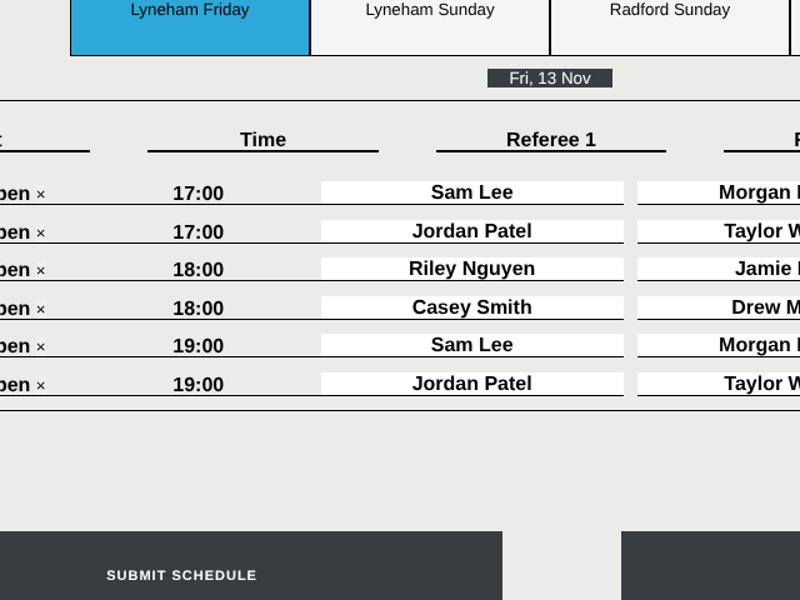
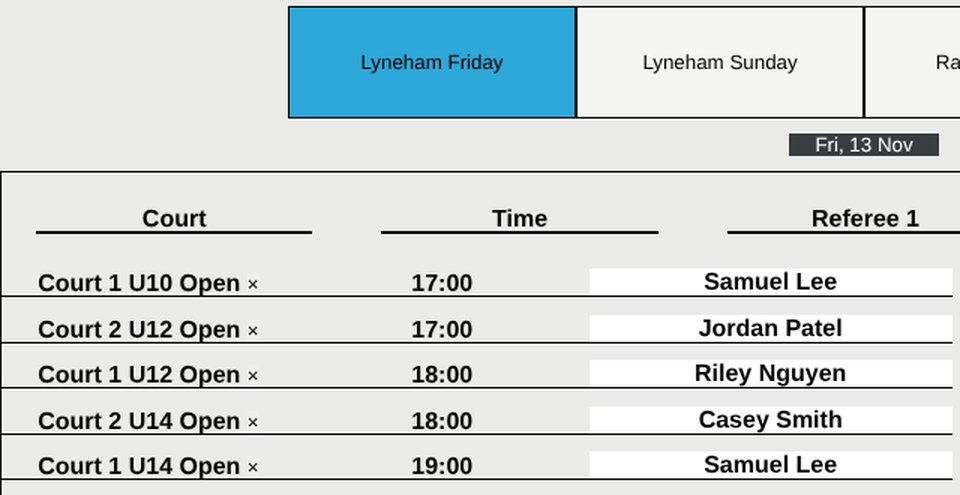
Restructure home page for employers, add link previews, 404, sitemap
- Feature the referee app first, with its security rebuild in the summary
- Move games into their own section; refresh Gunther card and screenshot
- Remove 75 Hard card, references line and unused 20 MB Gunther.gif
- Group skills; add large link preview image, Person schema, canonical
- Add 404.html, robots.txt, sitemap.xml; case study preview tags
- Accessibility: main landmark, image links hidden from screen readers
  and keyboard (they duplicate Play), bigger Code tap targets

Claude-Session: https://claude.ai/code/session_017CNj2MoNH8VgPs7evN4h65

diff --git a/index.html b/index.html
@@ -9,8 +9,23 @@
   <meta property="og:url" content="https://bnbaldwin.com/">
   <meta property="og:title" content="Blake Baldwin">
   <meta property="og:description" content="IT graduate studying a Master of Cyber Security, building games and apps on the side.">
-  <meta property="og:image" content="https://bnbaldwin.com/images/me.jpg">
-  <meta name="twitter:card" content="summary">
+  <meta property="og:image" content="https://bnbaldwin.com/images/og.jpg">
+  <meta property="og:image:width" content="1200">
+  <meta property="og:image:height" content="630">
+  <meta name="twitter:card" content="summary_large_image">
+  <link rel="canonical" href="https://bnbaldwin.com/">
+  <script type="application/ld+json">
+  {
+    "@context": "https://schema.org",
+    "@type": "Person",
+    "name": "Blake Baldwin",
+    "url": "https://bnbaldwin.com/",
+    "image": "https://bnbaldwin.com/images/me.jpg",
+    "sameAs": ["https://github.com/ballsyblake", "https://www.linkedin.com/in/blake-baldwin-22b68ba9/"],
+    "alumniOf": {"@type": "CollegeOrUniversity", "name": "University of Canberra"},
+    "knowsAbout": ["Cyber security", "Web development", "Game development"]
+  }
+  </script>
   <link rel="icon" href="favicon.svg" type="image/svg+xml">
   <link rel="preconnect" href="https://fonts.googleapis.com">
   <link rel="preconnect" href="https://fonts.gstatic.com" crossorigin>
@@ -81,7 +96,7 @@
     }
     .card h3 { font-size: 1.1rem; }
     .card p { color: var(--muted); font-size: 0.95rem; flex: 1; }
-    .card img { width: 100%; aspect-ratio: 4 / 3; object-fit: cover; border-radius: 8px; border: 1px solid var(--line); }
+    .card img { width: 100%; height: auto; aspect-ratio: 4 / 3; object-fit: cover; border-radius: 8px; border: 1px solid var(--line); }
     .card img.pixel { image-rendering: pixelated; }
     .tags { display: flex; flex-wrap: wrap; gap: 6px; }
     .tags span { font-size: 0.75rem; background: var(--tag); padding: 2px 8px; border-radius: 6px; }
@@ -90,7 +105,15 @@
       background: var(--accent); color: var(--accent-ink); text-decoration: none;
       padding: 6px 14px; border-radius: 8px;
     }
+    .actions a:not(.play) { padding: 6px 2px; }
     .note { font-size: 0.85rem; color: var(--muted); }
+
+    .feature { display: grid; grid-template-columns: 1.1fr 1fr; gap: 20px; align-items: start; }
+    .feature img { aspect-ratio: 16 / 10; object-position: left top; }
+    @media (max-width: 680px) { .feature { grid-template-columns: 1fr; } }
+    .skills { display: grid; gap: 12px; }
+    .skills h3 { font-size: 0.85rem; font-weight: 600; margin-bottom: 6px; }
+    footer a { color: inherit; }
 
     .list { list-style: none; display: grid; gap: 14px; }
     .list li { display: grid; grid-template-columns: 1fr; gap: 2px; }
@@ -104,7 +127,7 @@
 <body>
   <div class="wrap">
     <header>
-      <img src="images/me.jpg" alt="Blake Baldwin">
+      <img src="images/me.jpg" alt="Blake Baldwin" width="112" height="112">
       <div>
         <h1>Blake Baldwin</h1>
         <p>IT graduate studying a Master of Cyber Security. I build games and small apps on the side.</p>
@@ -116,61 +139,22 @@
       </div>
     </header>
 
-    <section id="projects">
-      <h2>Projects</h2>
-      <div class="grid">
-        <article class="card">
-          <a href="referee-app/"><img src="images/referee-app.jpg" alt="Referee app: the admin schedule, appointing available referees to matches" loading="lazy"></a>
+    <main>
+    <section id="featured">
+      <h2>Featured project</h2>
+      <article class="card feature">
+        <a href="referee-app/" tabindex="-1" aria-hidden="true"><img src="images/referee-app.jpg" alt="" width="960" height="495"></a>
+        <div style="display:flex;flex-direction:column;gap:10px">
           <h3>Referee Appointments System</h3>
-          <p>Scheduling for a community futsal club: availability, match appointments, venue shifts, pay and email alerts. Used by the club from 2020, then rebuilt in 2026 with proper security and tests.</p>
-          <div class="tags"><span>PHP</span><span>MySQL</span><span>jQuery</span><span>Security</span></div>
+          <p>Scheduling for a community futsal club: availability, match appointments, venue shifts, pay and email alerts. Used by the club from 2020, then rebuilt in 2026 to fix its security holes: hashed passwords, server-side sessions and role checks, prepared statements against SQL injection, CSRF protection, and automated security tests.</p>
+          <div class="tags"><span>PHP</span><span>MySQL</span><span>jQuery</span><span>Security</span><span>Playwright</span></div>
           <div class="actions">
             <a class="play" href="referee-app/demo/">Try the demo</a>
             <a href="referee-app/">Case study</a>
             <a href="https://github.com/ballsyblake/referee-appointments">Code</a>
           </div>
-        </article>
-
-        <article class="card">
-          <a href="https://ballsyblake.github.io/A-little-to-the-left/"><img src="images/just-so.jpg" alt="Just So: a row of mugs to turn so their handles match" loading="lazy"></a>
-          <h3>Just So</h3>
-          <p>A cozy tidying puzzle for your phone. 100 levels where everything has a right place.</p>
-          <div class="tags"><span>TypeScript</span><span>Vite</span><span>Mobile web</span></div>
-          <div class="actions">
-            <a class="play" href="https://ballsyblake.github.io/A-little-to-the-left/">Play</a>
-            <a href="https://github.com/ballsyblake/A-little-to-the-left">Code</a>
-          </div>
-        </article>
-
-        <article class="card">
-          <a href="https://ballsyblake.github.io/croc-2/"><img class="pixel" src="images/bimbles-bounce.jpg" alt="Bimble's Bounce: the mascot in a low-poly grassy level" loading="lazy"></a>
-          <h3>Bimble's Bounce</h3>
-          <p>A low-poly 3D collect-a-thon platformer that runs in iPhone Safari. Early test level.</p>
-          <div class="tags"><span>three.js</span><span>Rapier physics</span><span>PWA</span></div>
-          <div class="actions">
-            <a class="play" href="https://ballsyblake.github.io/croc-2/">Play</a>
-            <a href="https://github.com/ballsyblake/croc-2">Code</a>
-          </div>
-        </article>
-
-        <article class="card">
-          <h3>75 Hard Tracker</h3>
-          <p>A shared tracker for the 75 Hard challenge: daily checklist, progress photos, coins for streaks and a crew leaderboard.</p>
-          <div class="tags"><span>React</span><span>Firebase</span><span>Tailwind</span></div>
-          <p class="note">Private to my crew, so no public link.</p>
-        </article>
-
-        <article class="card">
-          <a href="gunther/"><img class="pixel" src="images/gunther.jpg" alt="Gunther: an archer fighting orcs among trees" loading="lazy"></a>
-          <h3>Gunther</h3>
-          <p>A medieval warband sandbox. Recruit and train soldiers, trade between towns, pick sides between two kingdoms and lead your army in real-time battles against an orc horde. Started in MonoGame and Godot, now playable in the browser.</p>
-          <div class="tags"><span>JavaScript</span><span>Canvas</span><span>Godot</span></div>
-          <div class="actions">
-            <a class="play" href="gunther/">Play</a>
-            <a href="https://github.com/ballsyblake/bnbaldwin/tree/master/gunther">Code</a>
-          </div>
-        </article>
-      </div>
+        </div>
+      </article>
     </section>
 
     <section id="about">
@@ -189,10 +173,50 @@
       </ul>
     </section>
 
+    <section id="projects">
+      <h2>Games and side projects</h2>
+      <div class="grid">
+        <article class="card">
+          <a href="gunther/" tabindex="-1" aria-hidden="true"><img class="pixel" src="images/gunther.jpg" alt="" loading="lazy" width="640" height="480"></a>
+          <h3>Gunther</h3>
+          <p>A medieval warband sandbox. Build an army, trade between towns, and lead it in real-time battles and sieges while five rival realms of humans, elves, dwarves and orcs go to war, ally and betray each other. Story campaign, heirs and mod support.</p>
+          <div class="tags"><span>JavaScript</span><span>Canvas</span><span>Game design</span></div>
+          <div class="actions">
+            <a class="play" href="gunther/">Play</a>
+            <a href="https://github.com/ballsyblake/bnbaldwin/tree/master/gunther">Code</a>
+          </div>
+        </article>
+
+        <article class="card">
+          <a href="https://ballsyblake.github.io/A-little-to-the-left/" tabindex="-1" aria-hidden="true"><img src="images/just-so.jpg" alt="" loading="lazy" width="537" height="402"></a>
+          <h3>Just So</h3>
+          <p>A cozy tidying puzzle for your phone. 100 levels where everything has a right place.</p>
+          <div class="tags"><span>TypeScript</span><span>Vite</span><span>Mobile web</span></div>
+          <div class="actions">
+            <a class="play" href="https://ballsyblake.github.io/A-little-to-the-left/">Play</a>
+            <a href="https://github.com/ballsyblake/A-little-to-the-left">Code</a>
+          </div>
+        </article>
+
+        <article class="card">
+          <a href="https://ballsyblake.github.io/croc-2/" tabindex="-1" aria-hidden="true"><img class="pixel" src="images/bimbles-bounce.jpg" alt="" loading="lazy" width="585" height="438"></a>
+          <h3>Bimble's Bounce</h3>
+          <p>A low-poly 3D collect-a-thon platformer that runs in iPhone Safari. Early test level.</p>
+          <div class="tags"><span>three.js</span><span>Rapier physics</span><span>PWA</span></div>
+          <div class="actions">
+            <a class="play" href="https://ballsyblake.github.io/croc-2/">Play</a>
+            <a href="https://github.com/ballsyblake/croc-2">Code</a>
+          </div>
+        </article>
+      </div>
+    </section>
+
     <section id="skills">
       <h2>Skills</h2>
-      <div class="tags">
-        <span>Cyber security fundamentals</span><span>Access control</span><span>System administration</span><span>Cloud and IoT</span><span>Python</span><span>SQL</span><span>TypeScript</span><span>React</span><span>Firebase</span><span>Power BI</span><span>Excel</span>
+      <div class="skills">
+        <div><h3>Security and infrastructure</h3><div class="tags"><span>Cyber security fundamentals</span><span>Access control</span><span>Secure web development</span><span>System administration</span><span>Cloud and IoT</span></div></div>
+        <div><h3>Development</h3><div class="tags"><span>Python</span><span>JavaScript</span><span>TypeScript</span><span>PHP</span><span>SQL</span><span>React</span><span>Firebase</span></div></div>
+        <div><h3>Data and reporting</h3><div class="tags"><span>Power BI</span><span>Excel</span><span>SQL</span></div></div>
       </div>
     </section>
 
@@ -203,8 +227,9 @@
         <li><strong>Bachelor of Information Technology, University of Canberra</strong><em>2018 to 2020, graduated</em><span>AI, cyber security and system administration, data science, cloud computing and IoT.</span></li>
       </ul>
     </section>
+    </main>
 
-    <footer>References available on request.</footer>
+    <footer>Blake Baldwin &middot; <a href="https://github.com/ballsyblake">GitHub</a> &middot; <a href="https://www.linkedin.com/in/blake-baldwin-22b68ba9/">LinkedIn</a></footer>
   </div>
 </body>
 </html>

diff --git a/404.html b/404.html
@@ -1,0 +1,28 @@
+<!DOCTYPE html>
+<html lang="en">
+<head>
+  <meta charset="utf-8">
+  <meta name="viewport" content="width=device-width, initial-scale=1">
+  <title>Page not found - Blake Baldwin</title>
+  <meta name="robots" content="noindex">
+  <link rel="icon" href="/favicon.svg" type="image/svg+xml">
+  <style>
+    :root { --bg: #f6f5f2; --ink: #1b1d22; --muted: #5d6270; --accent: #2f6fe4; --accent-ink: #fff; color-scheme: light; }
+    @media (prefers-color-scheme: dark) { :root { --bg: #121418; --ink: #eceef2; --muted: #a0a6b3; --accent: #6a9cff; --accent-ink: #0d1016; color-scheme: dark; } }
+    * { box-sizing: border-box; margin: 0; }
+    body { background: var(--bg); color: var(--ink); font: 16px/1.6 system-ui, -apple-system, "Segoe UI", sans-serif; }
+    main { max-width: 560px; margin: 0 auto; padding: 96px 16px; }
+    h1 { font-size: 2rem; line-height: 1.2; }
+    p { color: var(--muted); margin: 12px 0 24px; }
+    a { display: inline-block; background: var(--accent); color: var(--accent-ink); text-decoration: none; font-weight: 600; padding: 8px 16px; border-radius: 8px; margin: 0 8px 8px 0; }
+  </style>
+</head>
+<body>
+  <main>
+    <h1>Page not found</h1>
+    <p>That page doesn't exist, or it has moved.</p>
+    <a href="/">Go to the home page</a>
+    <a href="/gunther/">Play Gunther</a>
+  </main>
+</body>
+</html>

diff --git a/referee-app/index.html b/referee-app/index.html
@@ -5,7 +5,14 @@
   <meta name="viewport" content="width=device-width, initial-scale=1">
   <title>Referee Appointments System - Blake Baldwin</title>
   <meta name="description" content="Case study: a referee and venue scheduling system for a community futsal club, rebuilt with sessions, hashed passwords, role checks and tests.">
-    <link rel="icon" href="../favicon.svg" type="image/svg+xml">
+    <meta property="og:type" content="article">
+  <meta property="og:url" content="https://bnbaldwin.com/referee-app/">
+  <meta property="og:title" content="Referee Appointments System - Blake Baldwin">
+  <meta property="og:description" content="A futsal club's scheduling system, rebuilt with sessions, hashed passwords, role checks and security tests. Live demo included.">
+  <meta property="og:image" content="https://bnbaldwin.com/referee-app/admin-schedule.jpg">
+  <meta name="twitter:card" content="summary_large_image">
+  <link rel="canonical" href="https://bnbaldwin.com/referee-app/">
+  <link rel="icon" href="../favicon.svg" type="image/svg+xml">
   <link rel="preconnect" href="https://fonts.googleapis.com">
   <link rel="preconnect" href="https://fonts.gstatic.com" crossorigin>
   <link href="https://fonts.googleapis.com/css2?family=Montserrat:wght@400;600;800&display=swap" rel="stylesheet">

diff --git a/gunther/index.html b/gunther/index.html
@@ -4,9 +4,9 @@
   <meta charset="utf-8">
   <meta name="viewport" content="width=device-width, initial-scale=1, maximum-scale=1, user-scalable=no">
   <title>Gunther</title>
-  <meta name="description" content="Gunther: raise a warband, trade across the island, and break the orc Horde. A small browser sandbox game by Blake Baldwin.">
+  <meta name="description" content="Gunther: raise a warband, trade across the island, and fight for or against five rival realms. A browser sandbox game by Blake Baldwin.">
   <meta property="og:title" content="Gunther">
-  <meta property="og:description" content="Raise a warband, trade across the island, and break the orc Horde.">
+  <meta property="og:description" content="Raise a warband, trade across the island, and fight for or against five rival realms.">
   <link rel="icon" href="../favicon.svg" type="image/svg+xml">
   <link rel="preconnect" href="https://fonts.googleapis.com">
   <link rel="preconnect" href="https://fonts.gstatic.com" crossorigin>
